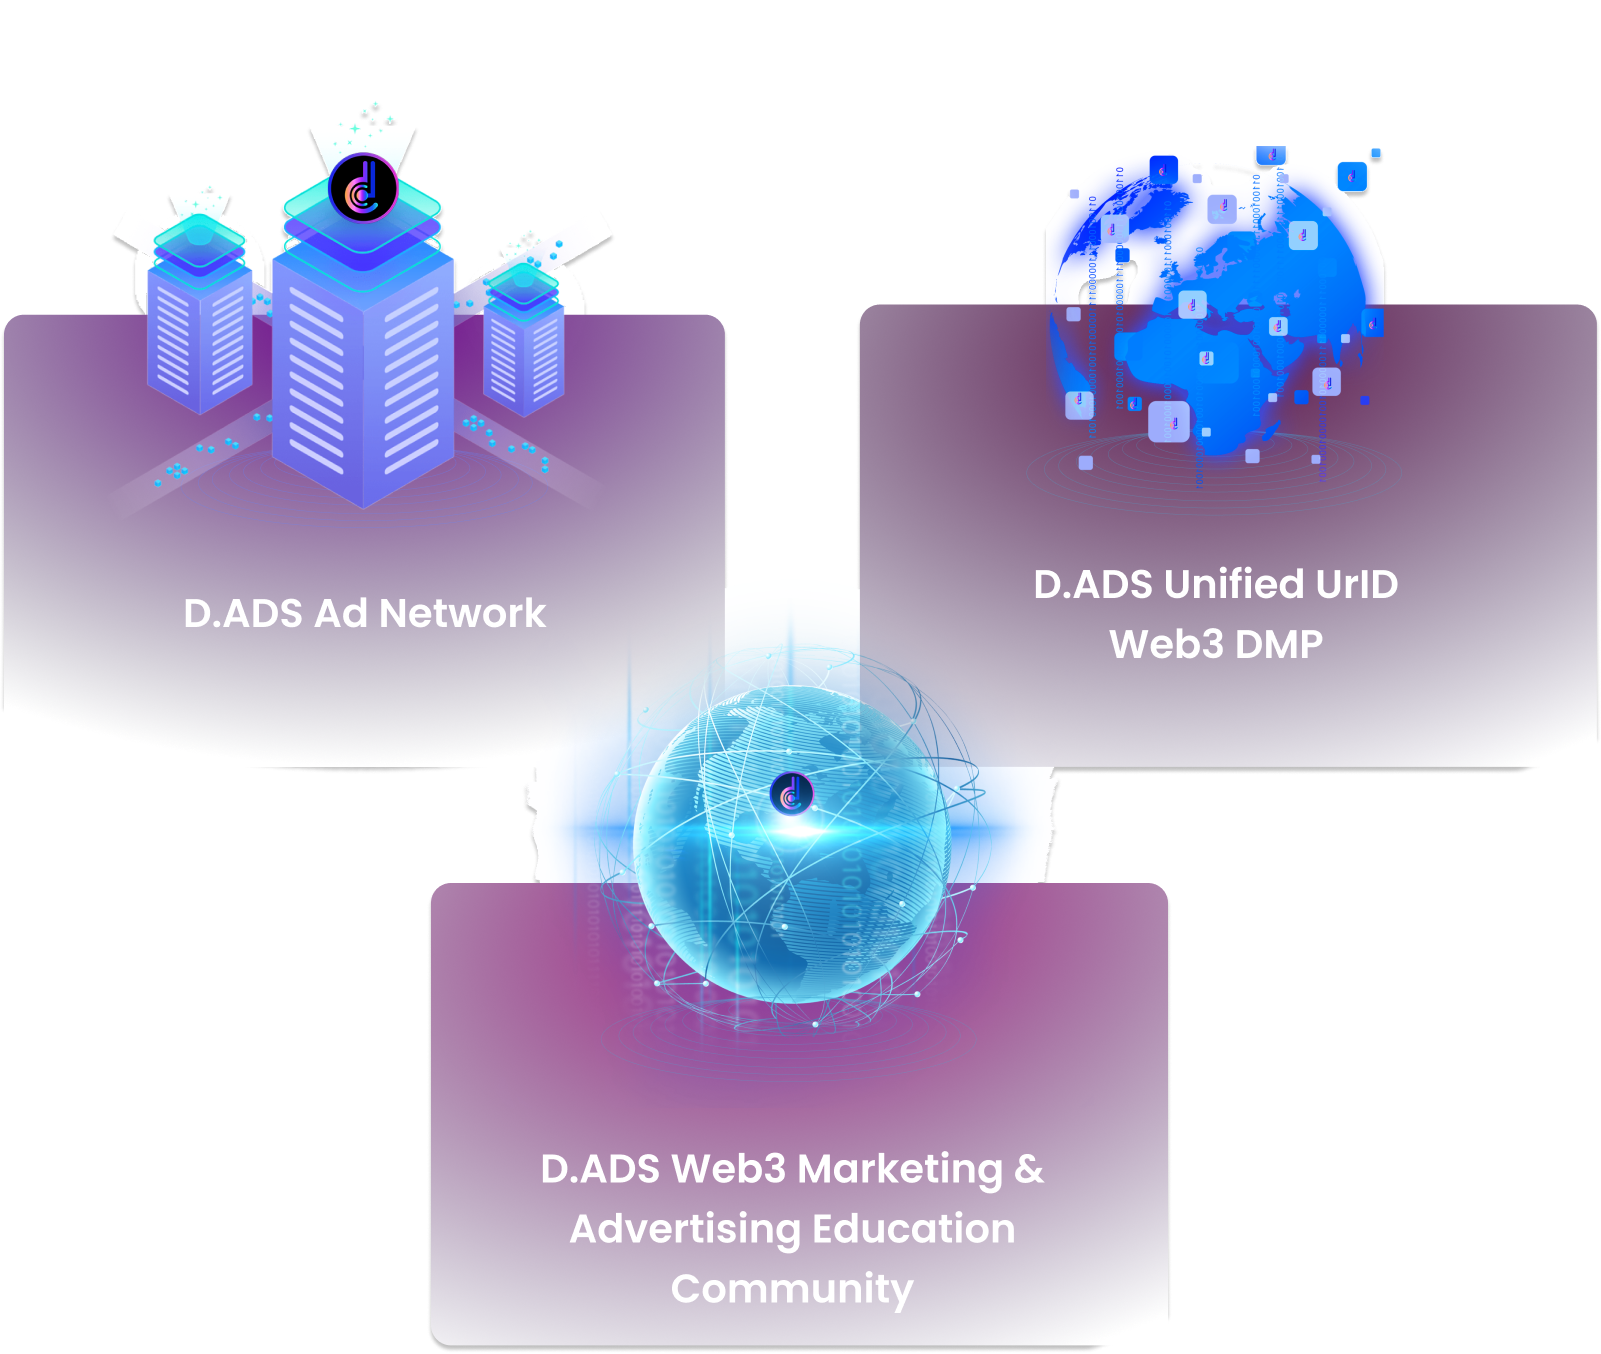
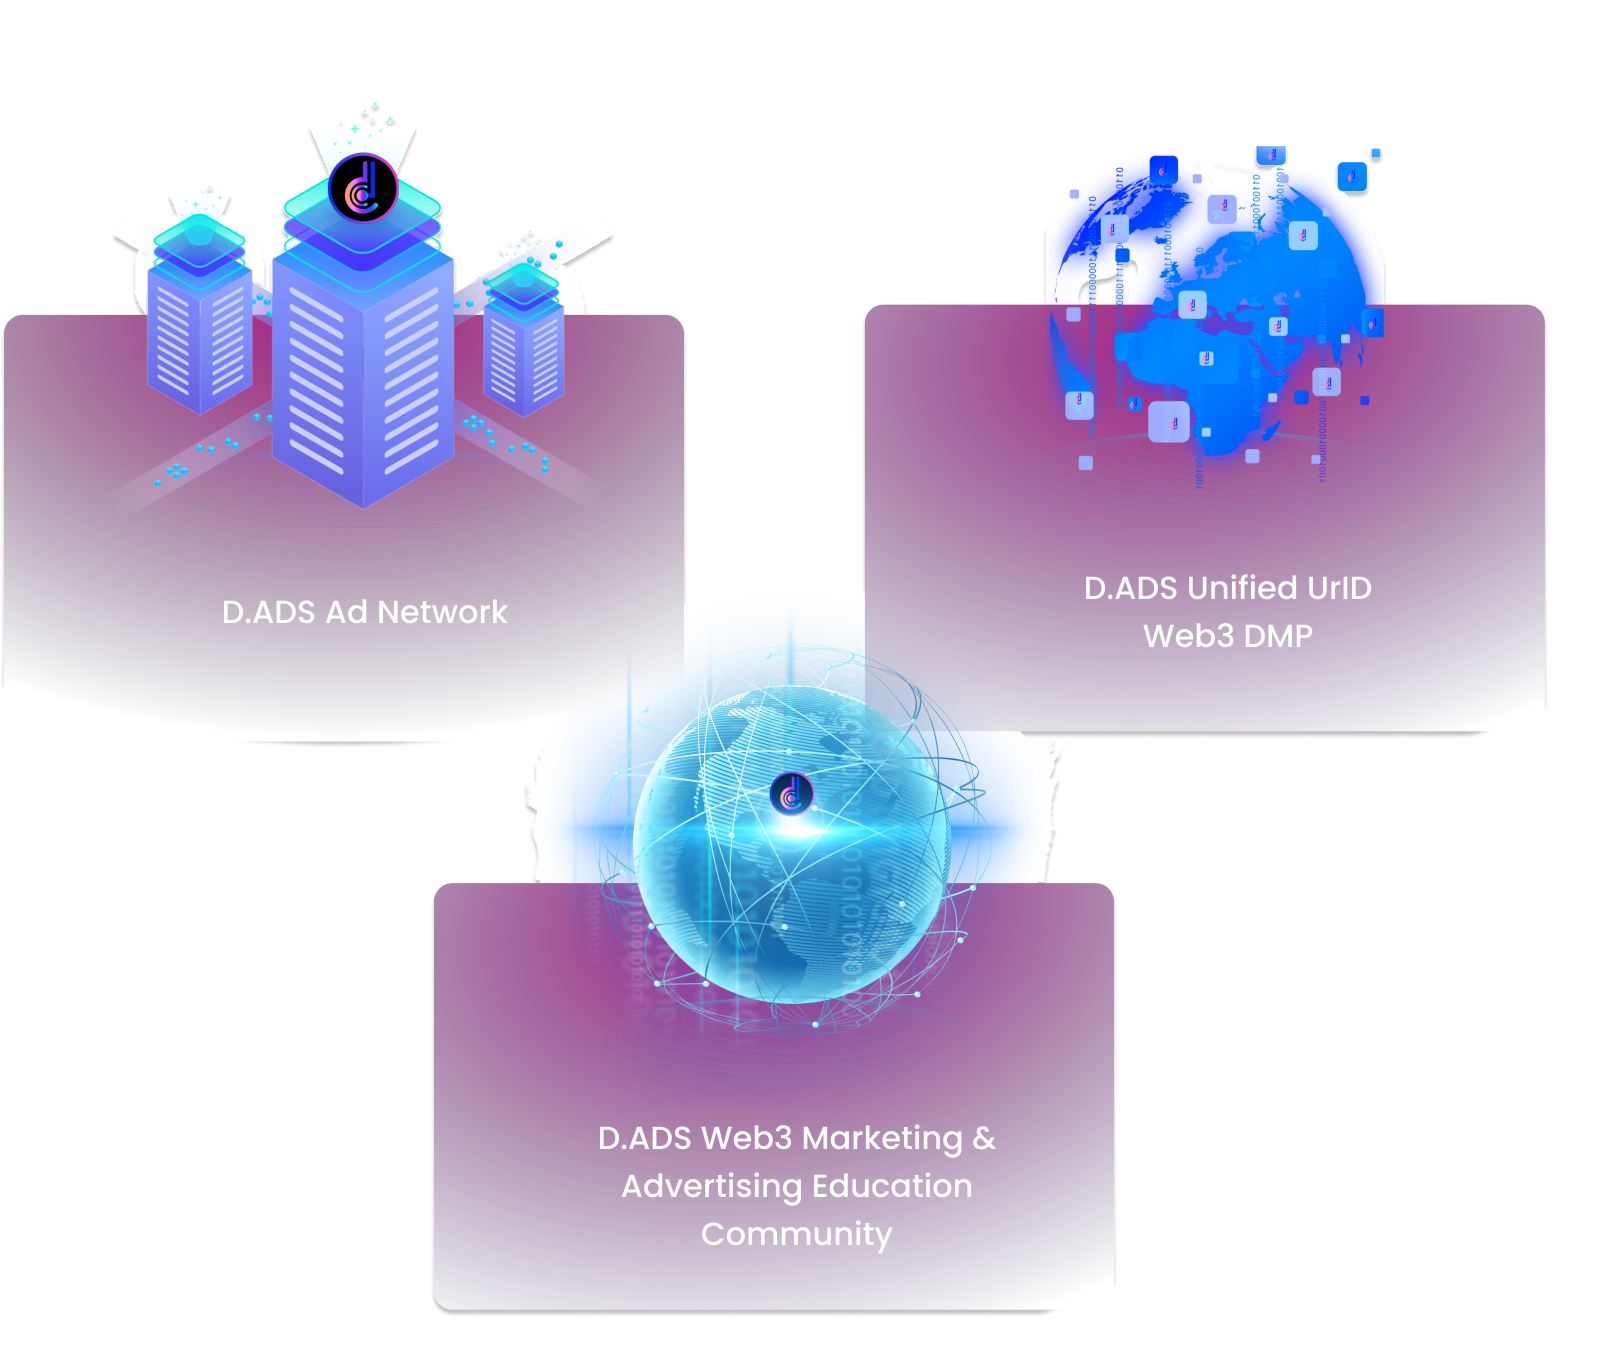
updated

diff --git a/index.html b/index.html
@@ -6,7 +6,7 @@
     <meta http-equiv="X-UA-Compatible" content="IE=edge">
     <meta name="viewport" content="width=device-width, initial-scale=1.0">
     <title>DADS</title>
-    <link href="https://fonts.googleapis.com/css2?family=Montserrat:wght@300;400;500;600;700;900&amp;display=swap"
+    <link href="https://fonts.googleapis.com/css2?family=Poppins:wght@300;400;500;600;700;900&amp;display=swap"
         rel="stylesheet">
     <link rel="stylesheet" href="https://unpkg.com/swiper/swiper-bundle.min.css" />
     <link rel="shortcut icon" type="image/x-icon" href="./images/dads-logo-black.png">
@@ -117,7 +117,7 @@
                     <h2 class="font-bold md:text-[35px] text-2xl sologan uppercase leading-normal">
                         USER-REWARD WEB3 <br> Advertising PLAFORM
                     </h2>
-                    <p class="text-1xl rounded-md py-2 font-bold">
+                    <p class="text-1xl rounded-md py-2 font-light">
                         D.ADS Network is the first user-reward web3 advertising network integrated D.ADS Unified
                         User-Reward ID built for rewarding wallet call viewers, powered by web3 marketing & advertising
                         community
@@ -222,8 +222,8 @@
                         <h2 class="text-white text-center uppercase font-bold title py-4 text-2xl md:text-4xl md:mb-4">
                             products
                         </h2>
-                        <h2 class="text-white text-center py-4 text-sm md:text-2xl md:mb-4">
-                            D.ADS Network is a decentralized advertising hub for
+                        <h2 class="text-white text-center py-4 text-sm md:text-xl md:mb-4 font-light">
+                            D.ADS Network is a decentralized advertising hub for <br>
                             marketers, web3 projects and ad viewers.
                         </h2>
                         <img src="./images/production.png" alt="" class="w-full md:mb-4">
@@ -244,7 +244,7 @@
                     <img src="./images/dads-ad-network.png" alt="" class="w-full md:mb-4">
                     <!-- <p class="text-white fw-lighter fs-6 pb-3 text-left ">DADS Ad Platform focuses on 3 main parts:
                             Advertiser, Publisher, User dashboard.</p> -->
-                    <h3 class="text-white text-center py-4 text-sm md:text-2xl md:mb-4">
+                    <h3 class="text-white text-center py-4 text-sm md:text-2xl md:mb-6">
                         Users see, interact with ads & manage their data to get D.ADS UTID rewards on
                     </h3>
                     <div class="flex md:space-x-4 flex-col md:flex-row justify-center items-center md:mb-[50px]">
@@ -564,7 +564,7 @@
                 </ul>
             </div>
             <div class="mb-3 md:w-1/4 md:text-center">
-                <h5 class="text-xl text-[#32cece] font-bold">Comunity</h5>
+                <h5 class="text-xl text-[#32cece] font-bold">Community</h5>
                 <ul>
                     <li class="mb-2"><a href="https://twitter.com/DADSNetworkco">Twitter</a></li>
                     <li class="mb-2"><a href="https://t.me/dadsnetworkglobalcommunity">Telegram</a></li>

diff --git a/js/home.js b/js/home.js
@@ -44,6 +44,7 @@ import '../scss/pages/home.scss'
       delay: 2500,
       disableOnInteraction: false,
     },
+    loop: true,
   })
   function toggleNav() {
     headerNav.querySelector('.hambuger').addEventListener('click', () => {
@@ -55,9 +56,7 @@ import '../scss/pages/home.scss'
 ;(() => {
   /// Set the date we're counting down to
   var countDownDate = new Date('Jan 5, 2024 15:37:25').getTime()
-
-  // Update the count down every 1 second
-  var x = setInterval(function () {
+  function countDown() {
     // Get today's date and time
     var now = new Date().getTime()
 
@@ -70,6 +69,20 @@ import '../scss/pages/home.scss'
       (distance % (1000 * 60 * 60 * 24)) / (1000 * 60 * 60)
     )
     var minutes = Math.floor((distance % (1000 * 60 * 60)) / (1000 * 60))
+    if (hours.toString().length === 1) {
+      var hours =
+        '0' + Math.floor((distance % (1000 * 60 * 60 * 24)) / (1000 * 60 * 60))
+    } else {
+      var hours = Math.floor(
+        (distance % (1000 * 60 * 60 * 24)) / (1000 * 60 * 60)
+      )
+    }
+    if (minutes.toString().length === 1) {
+      var minutes =
+        '0' + Math.floor((distance % (1000 * 60 * 60)) / (1000 * 60))
+    } else {
+      var minutes = Math.floor((distance % (1000 * 60 * 60)) / (1000 * 60))
+    }
     var seconds = Math.floor((distance % (1000 * 60)) / 1000)
 
     // Output the result in an element with id="demo"
@@ -79,9 +92,14 @@ import '../scss/pages/home.scss'
     // If the count down is over, write some text
     if (distance < 0) {
       clearInterval(x)
-      document.getElementById('demo').innerHTML = 'EXPIRED'
+      document.getElementById('day').innerHTML = '00'
+      document.getElementById('hour').innerHTML = '00'
+      document.getElementById('min').innerHTML = '00'
     }
-  }, 1000)
+  }
+  countDown()
+  // Update the count down every 1 second
+  var x = setInterval(countDown, 60000)
 })()
 
 if (document.getElementById('copyButton')) {
